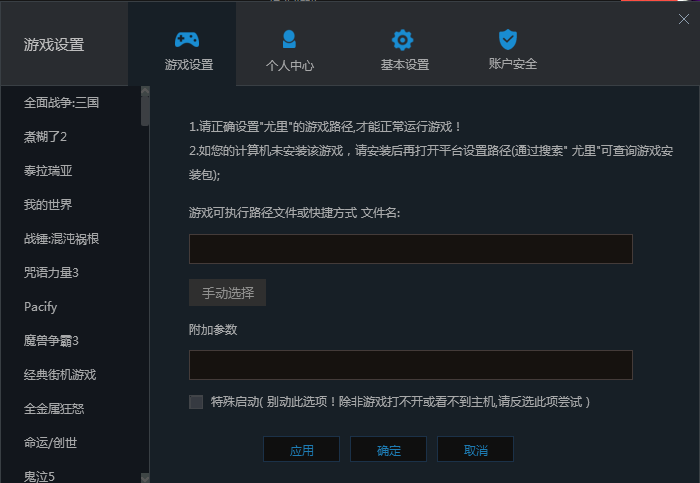
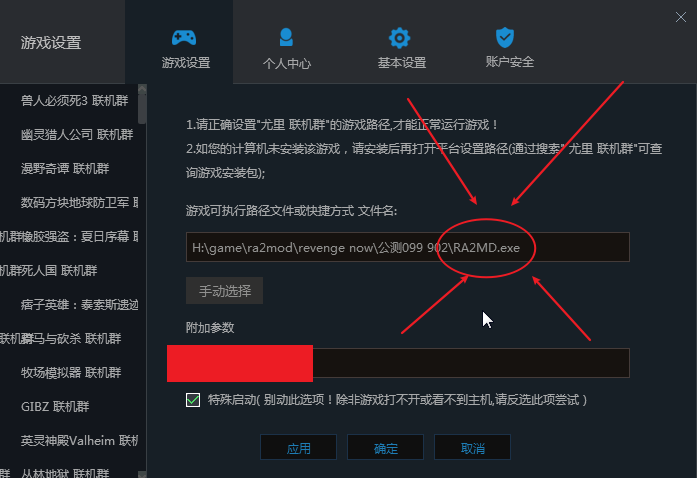
更新游侠联机教程

diff --git a/QuestionNAnswer/游侠联机教程.md b/QuestionNAnswer/游侠联机教程.md
@@ -4,7 +4,7 @@
 
 
 
-- **游侠对战平台下载**
+## 游侠对战平台下载
     - 普通下载：http://soft.ali213.net/pk/ali213pk_kh6.30.rar
     - 百度云下载：https://pan.baidu.com/s/1KNRKH1TeeiBix6N8bIX3aw#list/path=%2F%5B2019-07-09%5Dali213pk_kh6.30
 
@@ -19,6 +19,7 @@
 
    - 登录成功后，会显示游侠对战平台的主页面
 
+## 在游侠里设置启动复仇时刻
  ![a](../img/yx1.png)
 
    - 左边列表里，选择**即时战略**
@@ -47,7 +48,7 @@
 
 ![a](../img/yx5.png)
 
-   - 然后，点击 **手动选择**，寻找到你**复仇时刻的安装目录**， 并且找到复仇时刻的  **RA2MD.exe**  这个程序，找到程序后点击**确定**
+   - 然后，点击 **手动选择**，寻找到你**复仇时刻的安装目录**， 并且找到复仇时刻的  **RA2MD.exe**  ![a](../img/yx5-1.png)这个程序，找到程序后点击**确定**
 
      - 设置页面就会随之关闭，你就可以点击 **开始游戏** 了
 
